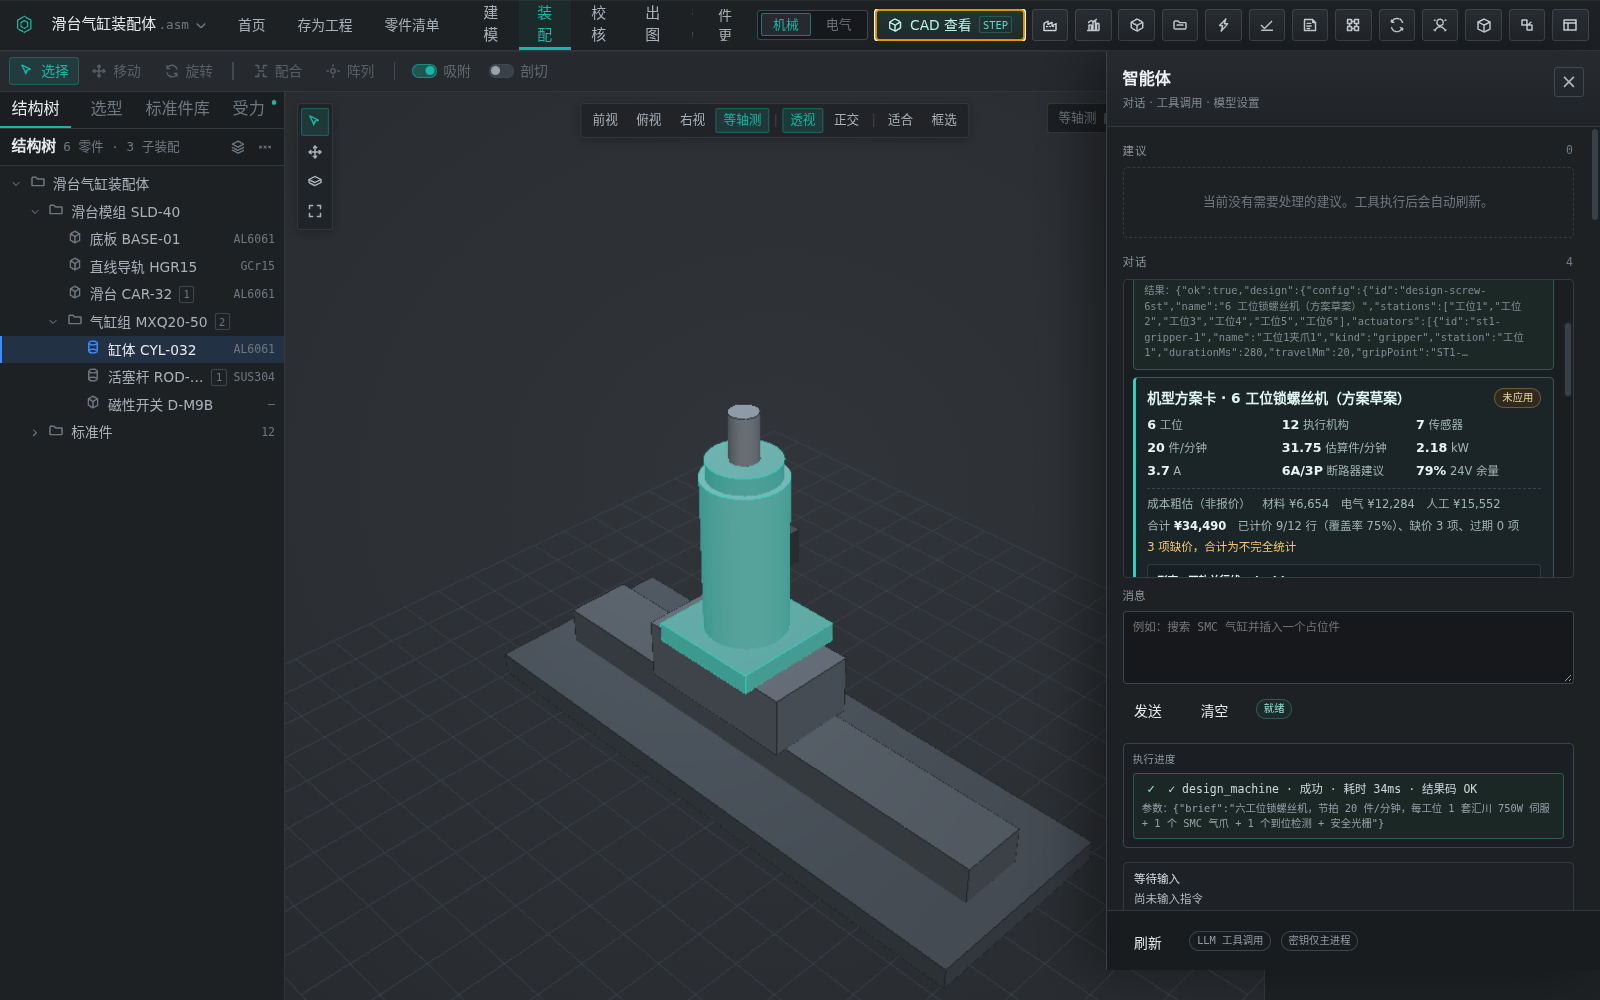
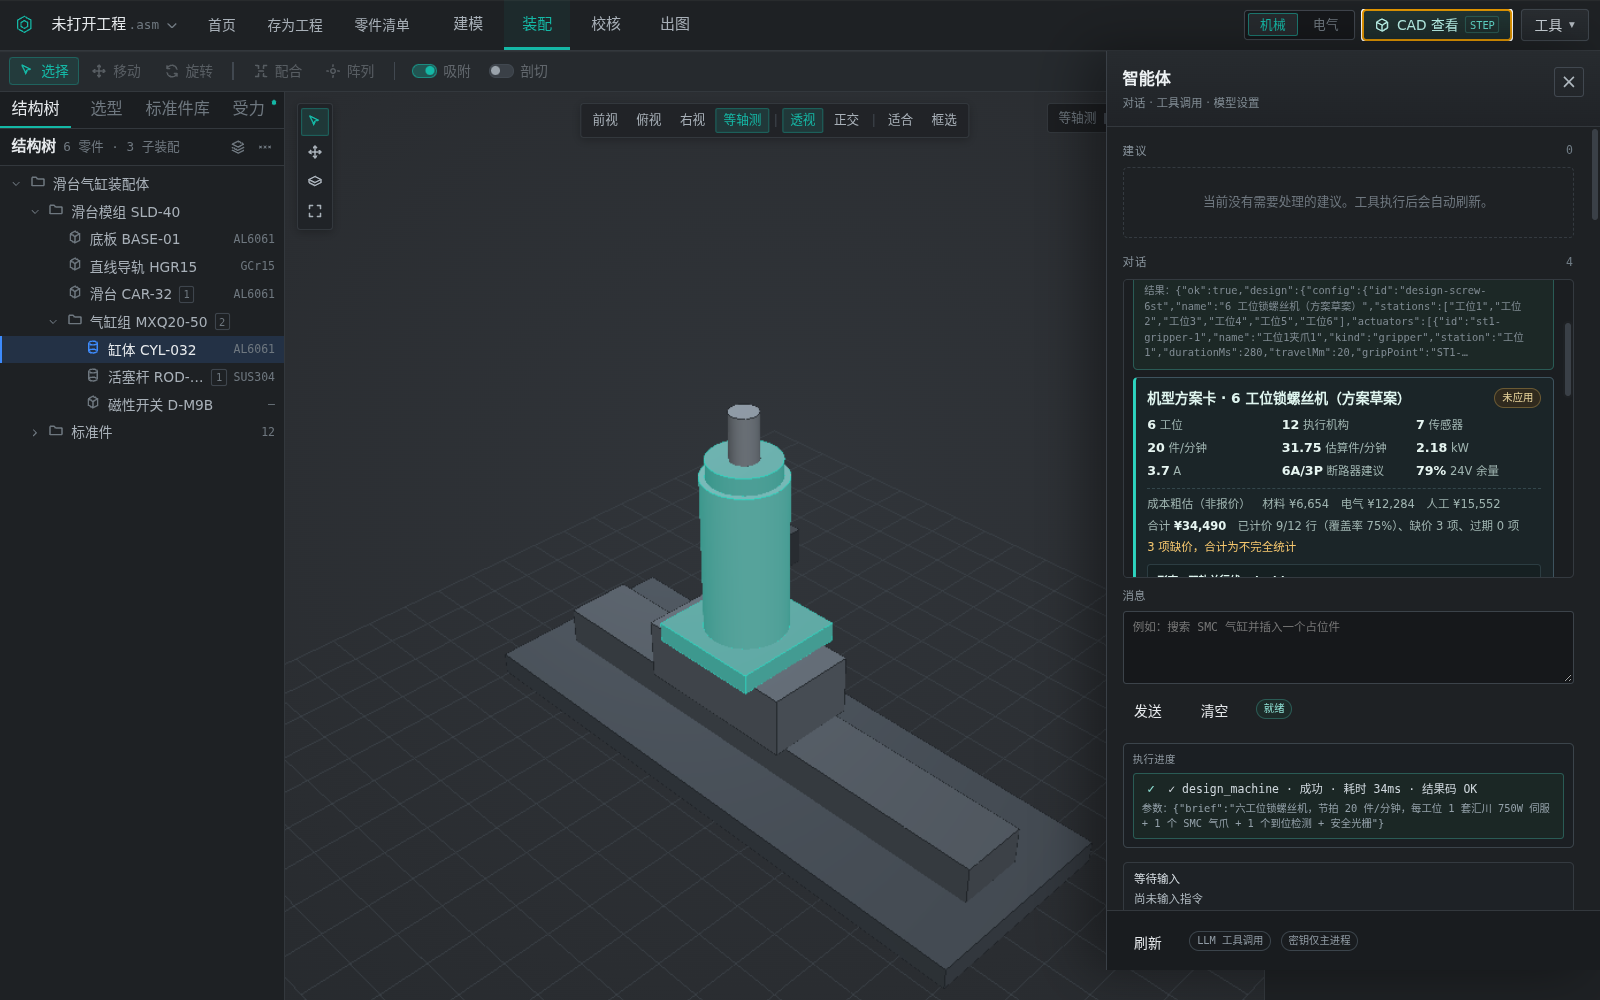
test(screenshots): 整机设计向导分步截图（npm run screenshots:wizard）
之前只有机型全流程 4 张（15–18），看不到「从零建机」的过程。新增一条纯界面路径：
- `captureDesignWizardScreenshots`：首页 → 第1步工艺/节拍 → 第2步形态候选 → 候选 3D 预览 →
  第3步工位与执行机构（加一个执行机构，看 IO 点位自动分配）→ 第4步布局 → 第5步一键校核 →
  第5步「生成 BOM」（落盘 CSV）→ 保存概念工程 → CAD 3D
- 每张 capturePage 后过 sha256 去重 + 尺寸/色数校验，重复即报错（不做假图）
- 新增 `--headless-wizard-shots` 与 `npm run screenshots:wizard`；
  launcher 加 `--use-gl=angle --use-angle=swiftshader --enable-unsafe-swiftshader`，
  否则无 GPU 机器上 WebGL 被拉黑，3D 会退化成「WebGL 不可用」

实跑：`DESIGN_WIZARD_SHOTS_DONE captured=9 failed=0`，9 张 1600×1000 互不相同
（图 20-wizard-00..07 + 06b）。已知：向导保存的是概念工程，CAD 面板的 BOM/IO 需要
「应用机型方案」才有内容，所以没抓那两张空面板；BOM 以第 5 步导出 CSV 为准。

diff --git a/desktop/electron/machine-screenshots.ts b/desktop/electron/machine-screenshots.ts
@@ -508,3 +508,186 @@ export async function captureMachineScreenshots(
     return { captured: shots.length, failed: 1 };
   }
 }
+
+/**
+ * 「从零建一台机器」的分步截图：整机设计向导 5 步 + 保存后的 3D + BOM + IO。
+ * 与 captureMachineScreenshots 的区别是**不走智能体**，纯手工走向导，
+ * 这样每一步的界面状态都能单独截下来当证据（哪一步填了什么、候选长什么样）。
+ */
+export async function captureDesignWizardScreenshots(
+  window: BrowserWindow,
+  options: MachineScreenshotOptions
+): Promise<{ captured: number; failed: number }> {
+  mkdirSync(options.outputDir, { recursive: true });
+  const shots: MachineShotValidation[] = [];
+  const seenHashes = new Map<string, string>();
+  const step = (name: string, label: string) => capture(window, options.outputDir, name, label, seenHashes);
+
+  window.setContentSize(SHOT_WIDTH, SHOT_HEIGHT);
+  window.webContents.setBackgroundThrottling(false);
+  await delay(350);
+  await waitForExtension(window);
+
+  try {
+    // 0. 首页（还没开始建机）
+    shots.push(await step('20-wizard-00-home.png', '首页：整机设计入口'));
+
+    // 1. 第一步：基本信息
+    await window.webContents.executeJavaScript(
+      `(async () => {
+        const wait = (ms) => new Promise((r) => setTimeout(r, ms));
+        const home = document.getElementById('homeScreen');
+        if (home && !home.hidden) { document.querySelector('.home-link')?.click(); await wait(600); }
+        window.AutomationCadViewer?.close();
+        window.AutomationCadParametric?.close();
+        await window.desktop.design.clearDraft();
+        document.getElementById('designWizardEntry').click();
+        await wait(700);
+        const root = document.getElementById('designWizard');
+        const set = (name, value) => {
+          const field = root.querySelector('[name="' + name + '"]');
+          if (!field) throw new Error('字段缺失：' + name);
+          field.value = value;
+          field.dispatchEvent(new Event('change', { bubbles: true }));
+        };
+        set('name', '从零建机演示');
+        set('stations', '3');
+        set('cyclePerMin', '10');
+        set('lengthMm', '2400');
+        set('widthMm', '1600');
+        await wait(200);
+        return true;
+      })()`
+    );
+    await settle(window, 300);
+    shots.push(await step('20-wizard-01-brief.png', '第 1 步：工艺与节拍'));
+
+    // 2. 第二步：形态候选（3 个方案 + 预测节拍）
+    await window.webContents.executeJavaScript(
+      `(async () => {
+        const wait = (ms) => new Promise((r) => setTimeout(r, ms));
+        const root = document.getElementById('designWizard');
+        root.querySelector('[data-action="next"]').click();
+        await wait(1600);
+        if (root.querySelectorAll('[data-candidate]').length < 3) throw new Error('候选未生成');
+        return true;
+      })()`
+    );
+    await settle(window, 350);
+    shots.push(await step('20-wizard-02-candidates.png', '第 2 步：形态候选'));
+
+    // 2b. 候选预览（3D 缩略）
+    await window.webContents.executeJavaScript(
+      `(async () => {
+        const wait = (ms) => new Promise((r) => setTimeout(r, ms));
+        const root = document.getElementById('designWizard');
+        root.querySelector('[data-preview="0"]')?.click();
+        await wait(700);
+        return true;
+      })()`
+    );
+    await settle(window, 300);
+    shots.push(await step('20-wizard-03-candidate-preview.png', '候选预览'));
+    await window.webContents.executeJavaScript(
+      `(async () => {
+        const root = document.getElementById('designWizard');
+        root.querySelector('#designPreviewClose')?.click();
+        root.querySelector('[data-action="next"]').click();
+        await new Promise((r) => setTimeout(r, 400));
+        return true;
+      })()`
+    );
+
+    // 3. 第三步：工位与执行机构（在第 3 工位加一个执行机构，让点位自动分配可见）
+    await window.webContents.executeJavaScript(
+      `(async () => {
+        const wait = (ms) => new Promise((r) => setTimeout(r, ms));
+        const root = document.getElementById('designWizard');
+        root.querySelectorAll('[data-station]')[2]?.click();
+        await wait(120);
+        root.querySelector('[data-action="add-actuator"]')?.click();
+        await wait(250);
+        return true;
+      })()`
+    );
+    await settle(window, 350);
+    shots.push(await step('20-wizard-04-stations.png', '第 3 步：工位与执行机构'));
+
+    // 4. 第四步：布局
+    await window.webContents.executeJavaScript(
+      `(async () => {
+        const root = document.getElementById('designWizard');
+        root.querySelector('[data-action="next"]').click();
+        await new Promise((r) => setTimeout(r, 500));
+        return true;
+      })()`
+    );
+    await settle(window, 350);
+    shots.push(await step('20-wizard-05-layout.png', '第 4 步：布局'));
+
+    // 5. 第五步：评审
+    await window.webContents.executeJavaScript(
+      `(async () => {
+        const wait = (ms) => new Promise((r) => setTimeout(r, ms));
+        const root = document.getElementById('designWizard');
+        root.querySelector('[data-action="next"]')?.click();
+        await wait(300);
+        root.querySelector('[data-action="run-review"]')?.click();
+        await wait(600);
+        return true;
+      })()`
+    );
+    await settle(window, 350);
+    shots.push(await step('20-wizard-06-review.png', '第 5 步：评审与保存'));
+
+    // 5b. 在第 5 步真的生成一次 BOM（不是空面板）
+    await window.webContents.executeJavaScript(
+      `(async () => {
+        const wait = (ms) => new Promise((r) => setTimeout(r, ms));
+        const root = document.getElementById('designWizard');
+        root.querySelector('[data-output="bom"]')?.click();
+        await wait(900);
+        return true;
+      })()`
+    );
+    await settle(window, 350);
+    shots.push(await step('20-wizard-06b-bom-generated.png', '第 5 步：生成 BOM'));
+
+    // 6. 保存为工程 → 3D
+    await window.webContents.executeJavaScript(
+      `(async () => {
+        const wait = (ms) => new Promise((r) => setTimeout(r, ms));
+        const root = document.getElementById('designWizard');
+        const save = root.querySelector('[data-action="save-project"]');
+        if (!save) throw new Error('保存按钮缺失');
+        if (save.disabled) {
+          const notice = root.querySelector('.design-content')?.textContent || '';
+          throw new Error('保存按钮不可用（评审未通过）：' + notice.slice(0, 300));
+        }
+        save.click();
+        // 概念保存后向导不会自己关（要等用户点「保存并关闭」），所以这里显式走同一路径
+        await wait(2200);
+        const state = document.getElementById('designSaveState')?.textContent || '';
+        root.querySelector('[data-action="close"]')?.click();
+        for (let i = 0; i < 120 && !root.hidden; i += 1) await wait(250);
+        if (!root.hidden) throw new Error('保存后向导仍未关闭：' + state.slice(0, 200));
+        window.AutomationCadKinematics?.close();
+        document.querySelector('#cadEntryButton')?.click();
+        await wait(900);
+        return true;
+      })()`
+    );
+    await waitFor(window, `(document.getElementById('cadPartCount')?.textContent || '').trim().length > 0`, '3D 零件数就绪', 30_000);
+    await settle(window, 500);
+    shots.push(await step('20-wizard-07-3d.png', '保存后：3D 联调'));
+
+    // 注意：向导路径保存的是「概念工程」，CAD 面板里的 BOM/IO 要「应用机型方案」才有内容，
+    // 所以这里不抓那两张空面板——BOM 已在第 5 步用「生成 BOM」落成 CSV（06b）。
+
+    console.log(`DESIGN_WIZARD_SHOTS_DONE captured=${shots.length} failed=0`);
+    return { captured: shots.length, failed: 0 };
+  } catch (error) {
+    console.error('DESIGN_WIZARD_SHOTS_FAIL', error);
+    return { captured: shots.length, failed: 1 };
+  }
+}

diff --git a/desktop/electron/main.ts b/desktop/electron/main.ts
@@ -106,7 +106,7 @@ import {
   type UpdateChannel
 } from './update-service.ts';
 import { captureProductScreenshots } from './screenshots';
-import { captureMachineScreenshots } from './machine-screenshots';
+import { captureMachineScreenshots, captureDesignWizardScreenshots } from './machine-screenshots';
 import { writeLastCrash } from './crash-report.ts';
 import { collectDiagnosis } from './diagnostics.ts';
 import {
@@ -121,11 +121,13 @@ const HEADLESS_SMOKE = process.argv.includes('--headless-smoke');
 const DIAGNOSE = process.argv.includes('--diagnose');
 const HEADLESS_SCREENSHOTS = process.argv.includes('--headless-screenshots');
 const HEADLESS_MACHINE_SCREENSHOTS = process.argv.includes('--headless-machine-screenshots');
+/** 整机设计向导分步截图（不依赖模型桩） */
+const HEADLESS_WIZARD_SHOTS = process.argv.includes('--headless-wizard-shots');
 const HEADLESS_DESIGN_WEBGL_SMOKE = process.argv.includes('--headless-design-webgl-smoke');
 /** 只起服务、跑外部客户端 smoke（MCP/JSON-RPC 契约）：不跑 UI 断言、不自动退出，等外部脚本杀。 */
 const HEADLESS_SERVICE = process.argv.includes('--headless-service');
 const HEADLESS = HEADLESS_SMOKE || HEADLESS_SCREENSHOTS || HEADLESS_MACHINE_SCREENSHOTS ||
-  HEADLESS_DESIGN_WEBGL_SMOKE || HEADLESS_SERVICE;
+  HEADLESS_WIZARD_SHOTS || HEADLESS_DESIGN_WEBGL_SMOKE || HEADLESS_SERVICE;
 if (HEADLESS_SMOKE && HEADLESS_DESIGN_WEBGL_SMOKE) {
   console.error('SMOKE_MODE_CONFLICT --headless-smoke disables WebGL; use --headless-design-webgl-smoke alone for SwiftShader');
   process.exit(1);
@@ -1223,6 +1225,21 @@ function createWindow(): BrowserWindow {
       recordDiagnosticError('EXTENSION_INJECT_FAILED', error);
       console.error('[desktop] 扩展脚本注入失败', error);
     }
+      if (HEADLESS_WIZARD_SHOTS) {
+        const outputDir = process.env.AUTOMATIONCAD_SCREENSHOT_DIR
+          ? resolve(process.env.AUTOMATIONCAD_SCREENSHOT_DIR)
+          : resolve(desktopRoot(), '..', 'docs', 'desktop', 'screenshots');
+        try {
+          const result = await captureDesignWizardScreenshots(window, { outputDir });
+          if (parametric) await parametric.stop();
+          setTimeout(() => app.exit(result.failed > 0 ? 1 : 0), 100);
+        } catch (error) {
+          console.error('SMOKE_WIZARD_SHOTS_FAIL', error);
+          if (parametric) await parametric.stop();
+          setTimeout(() => app.exit(1), 100);
+        }
+        return;
+      }
       if (HEADLESS_MACHINE_SCREENSHOTS) {
         const outputDir = process.env.AUTOMATIONCAD_SCREENSHOT_DIR
           ? resolve(process.env.AUTOMATIONCAD_SCREENSHOT_DIR)
